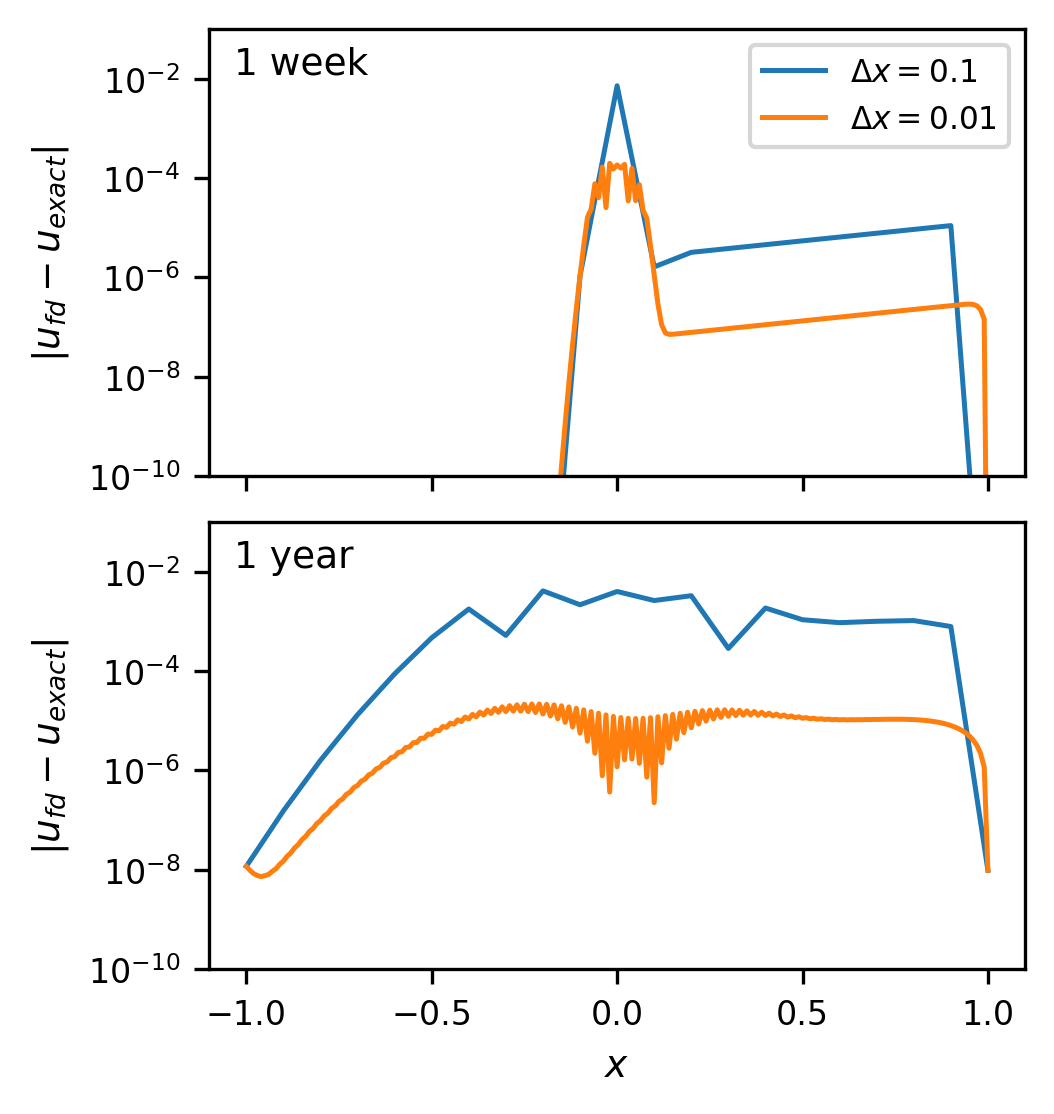
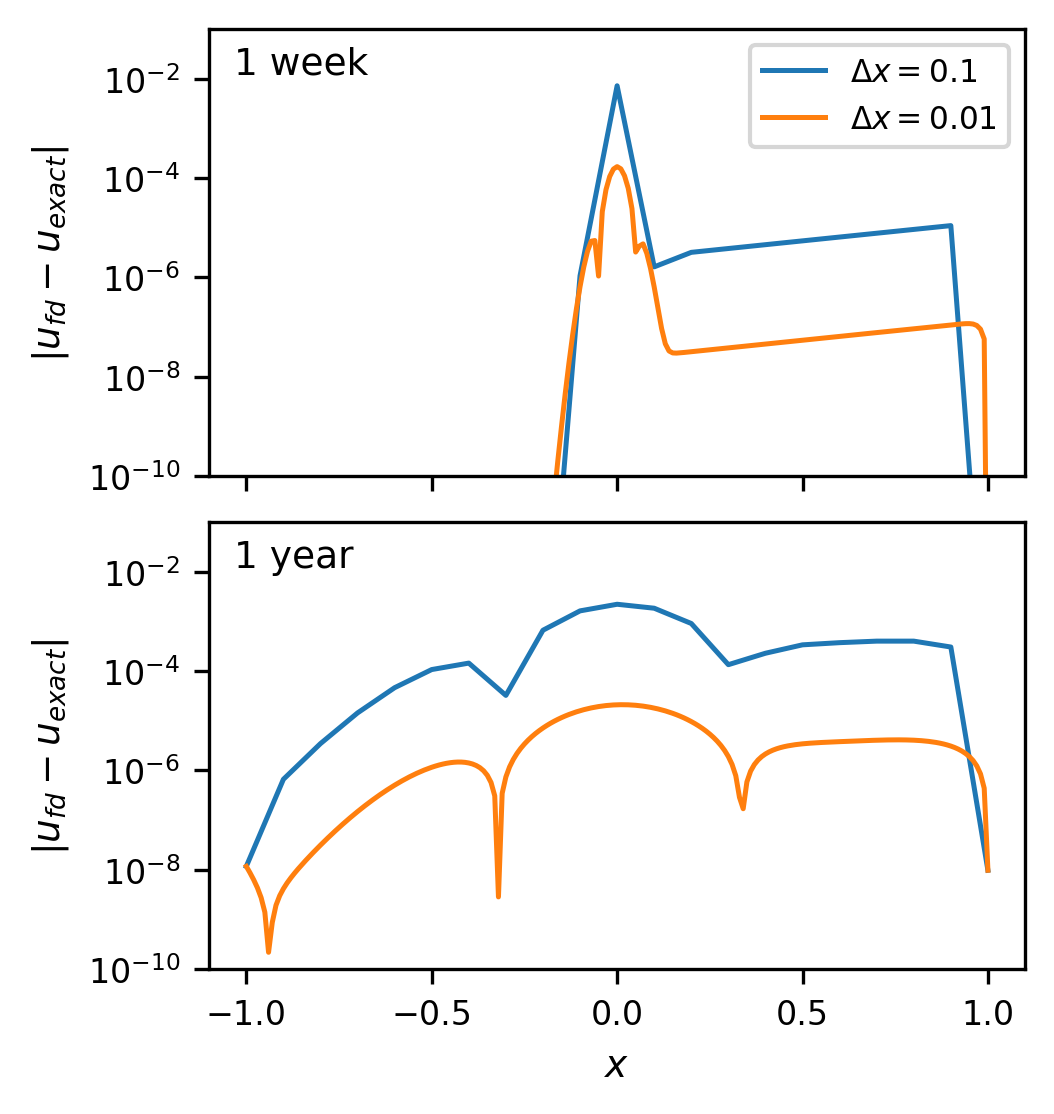
Went back and implemented fixed alpha for all Delta x. New figure.

diff --git a/Code/src/finite_difference.py b/Code/src/finite_difference.py
@@ -1,22 +1,28 @@
 import numpy as np
 
-def explicit_scheme(u_initial, left_boundary, right_boundary, x_min, x_max, dx, taus, alpha=0.5):
+
+def explicit_scheme(u_initial, left_boundary, right_boundary, x_min, x_max, dx, alpha, taus):
+    if alpha > 0.5:
+        raise ValueError(f"alpha = {alpha} is above the stability limit 1/2")
     n = round((x_max - x_min) / dx)
     x = np.linspace(x_min, x_max, n + 1)
     u = np.array(u_initial(x), dtype=float)   # numpy copy, so we can update it in place
-    tau = 0.0
-    u_saved = []
 
-    for tau_end in taus:
-        # Largest stable step is alpha dx^2; take a few more, slightly smaller steps so we land on tau_end exactly.
-        n_steps = int(np.ceil((tau_end - tau) / (alpha * dx**2)))
-        dtau = (tau_end - tau) / n_steps
-        for _ in range(n_steps):
-            u[1:-1] = u[1:-1] + dtau / dx**2 * (u[2:] - 2 * u[1:-1] + u[:-2])
-            tau += dtau
-            u[0] = left_boundary(tau)
-            u[-1] = right_boundary(tau)
-        tau = tau_end   # remove the round-off from summing the steps
+    # One fixed time step for the whole run, so the answer at a time does not depend on which other times we ask for.
+    dtau = alpha * dx**2
+    target_steps = [round(tau / dtau) for tau in taus]
+    for tau, m in zip(taus, target_steps):
+        if abs(m * dtau - tau) > 1e-9 * tau:
+            raise ValueError(f"tau = {tau} is not a whole number of steps of dtau = {dtau}")
+
+    step = 0
+    u_saved = []
+    for m in target_steps:
+        while step < m:
+            u[1:-1] = u[1:-1] + alpha * (u[2:] - 2 * u[1:-1] + u[:-2])
+            step += 1
+            u[0] = left_boundary(step * dtau)
+            u[-1] = right_boundary(step * dtau)
         u_saved.append(u.copy())
 
     return x, np.array(u_saved)

diff --git a/Code/parts/part_b/profiles.py b/Code/parts/part_b/profiles.py
@@ -1,7 +1,7 @@
 import numpy as np
 import matplotlib.pyplot as plt
 
-from src.problems import L, K, t1, t2, to_heat_variables, u_to_price, bs_initial
+from src.problems import L, K, t1, t2, alpha, to_heat_variables, u_to_price, bs_initial
 from src.problems import bs_left_boundary, bs_right_boundary, bs_exact, sin_exact, sin_initial
 from src.finite_difference import explicit_scheme
 from src.plotting import save_fig
@@ -13,7 +13,7 @@ zero = lambda tau: 0.0
 taus_sin = [0.02, 0.2]
 
 for dx in (0.1, 0.01):
-    x, u_fd = explicit_scheme(sin_initial, zero, zero, 0, 1, dx, taus_sin)
+    x, u_fd = explicit_scheme(sin_initial, zero, zero, 0, 1, dx, alpha, taus_sin)
     for i, tau in enumerate(taus_sin):
         error = np.abs(u_fd[i] - sin_exact(x, tau))
         print(f"sin, dx = {dx}, tau = {tau}: max error = {error.max():.2e}")
@@ -23,7 +23,7 @@ labels = ["1 week", "1 year"]
 runs = {}
 
 for dx in (0.1, 0.01):
-    x, u_fd = explicit_scheme(bs_initial, bs_left_boundary, bs_right_boundary, -L, L, dx, taus_bs)
+    x, u_fd = explicit_scheme(bs_initial, bs_left_boundary, bs_right_boundary, -L, L, dx, alpha, taus_bs)
     runs[dx] = (x, u_fd)
 
 for dx, (x, u_fd) in runs.items():

diff --git a/Code/src/problems.py b/Code/src/problems.py
@@ -17,6 +17,11 @@ t2 = 1.0       # time to expiry in years: one year, kink smoothed out
 k = 2 * r / sigma**2         # the only combination of r and sigma left in the heat form
 tau_max = sigma**2 * T / 2   # tau at t = 0, one year before expiry
 
+# Explicit scheme: one fixed alpha = dtau / dx^2 for every grid. With this alpha, t1 is exactly one step on the
+# coarsest grid (dx = 1/10); halving dx gives four times as many steps, so t1 and t2 = 52 t1 are hit on every grid.
+dx_coarse = 0.1
+alpha = sigma**2 / 2 * t1 / dx_coarse**2
+
 
 def black_scholes_call(S, time_to_expiry, K=K, r=r, sigma=sigma, q=0.0):
     S = np.asarray(S, dtype=float)
